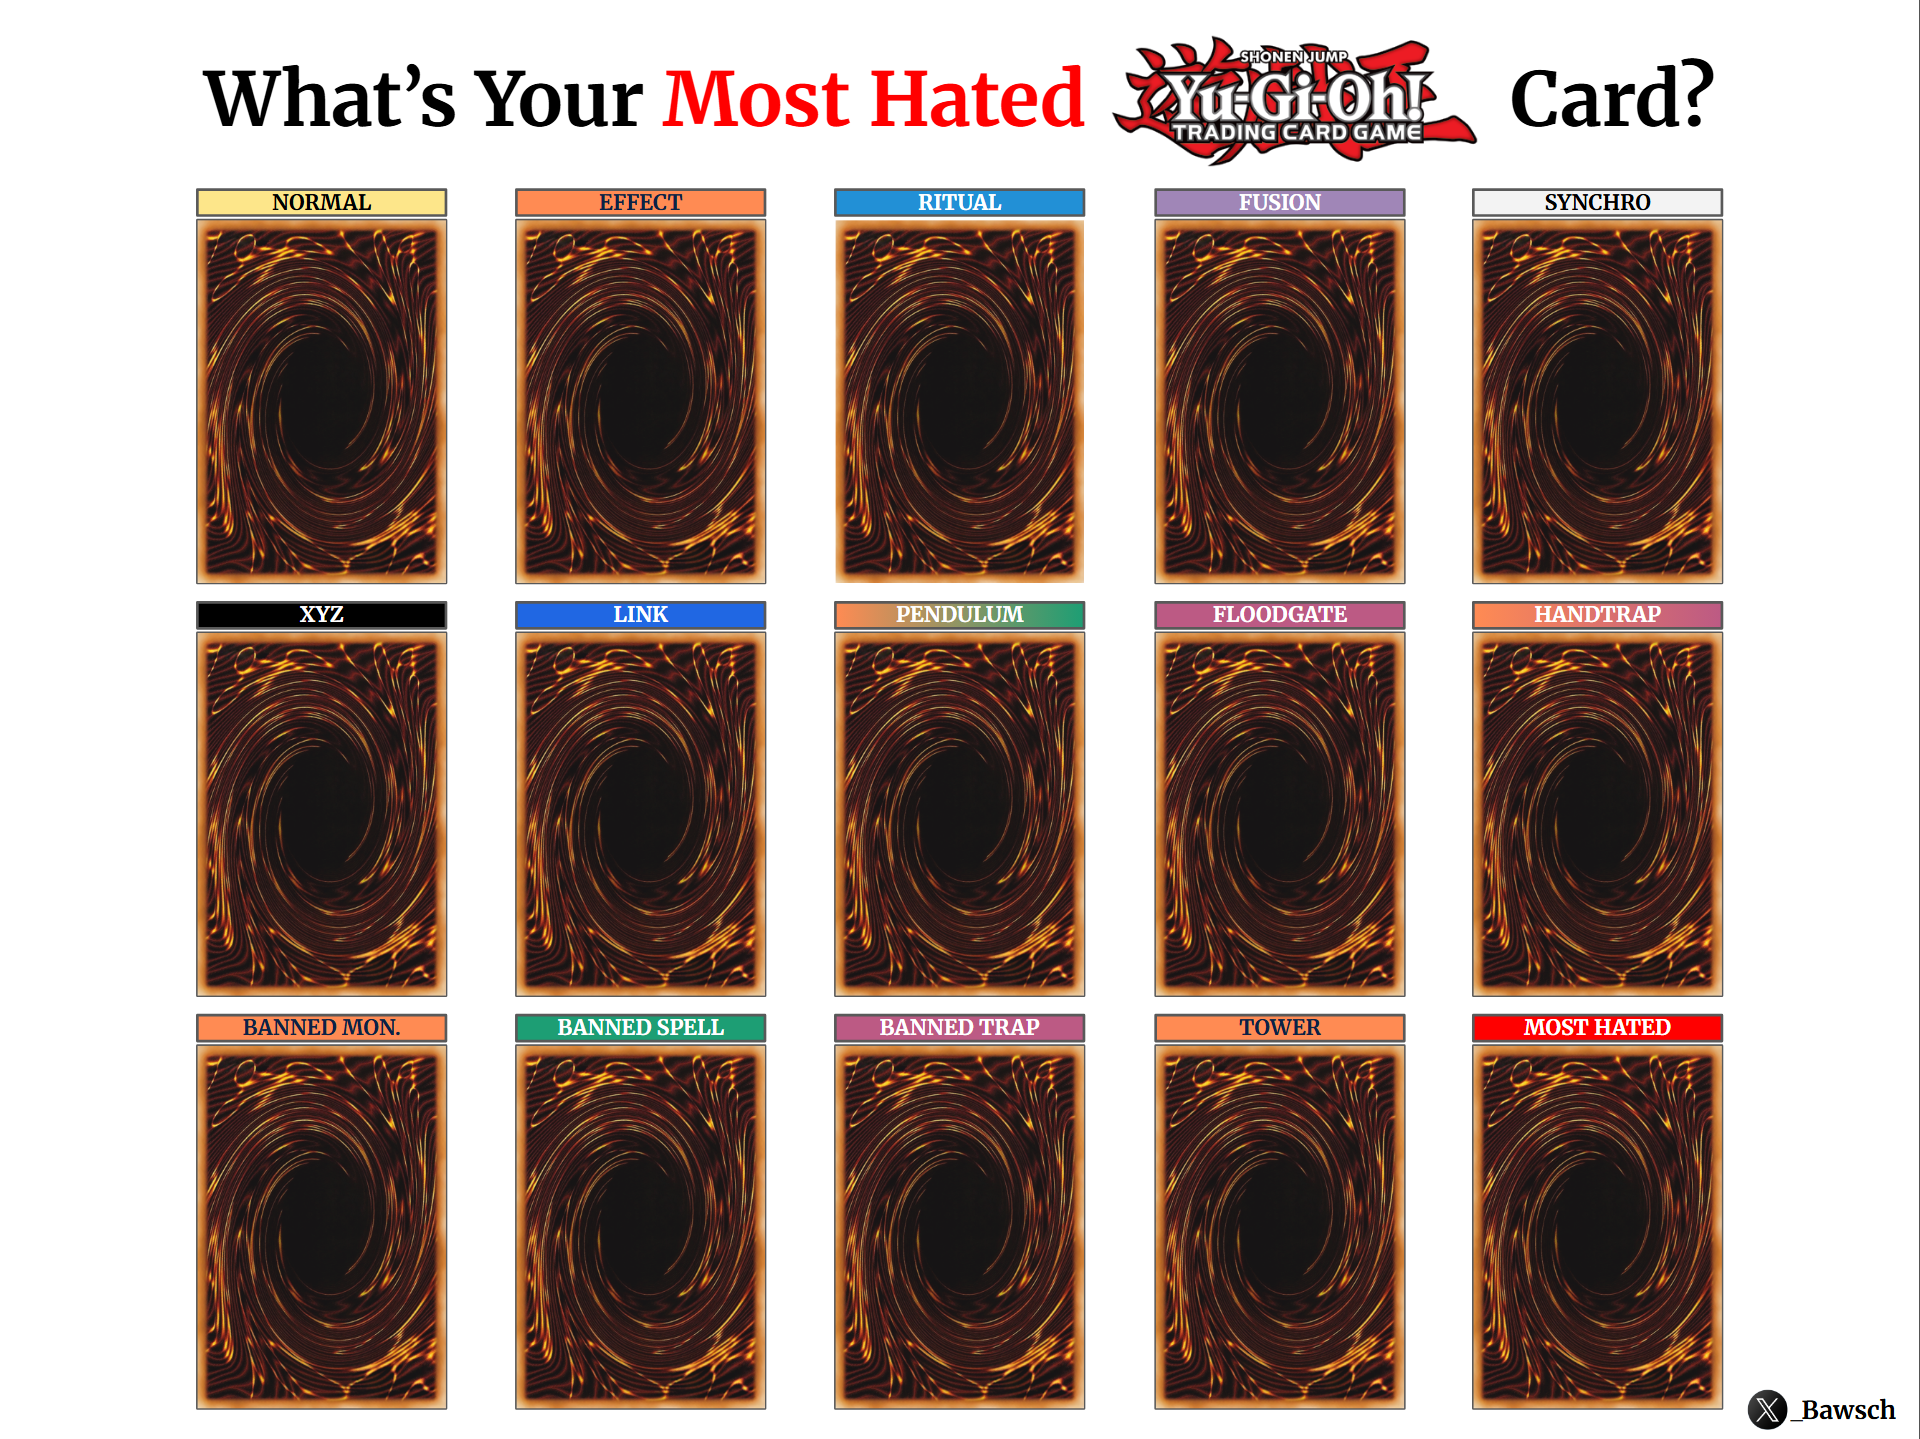
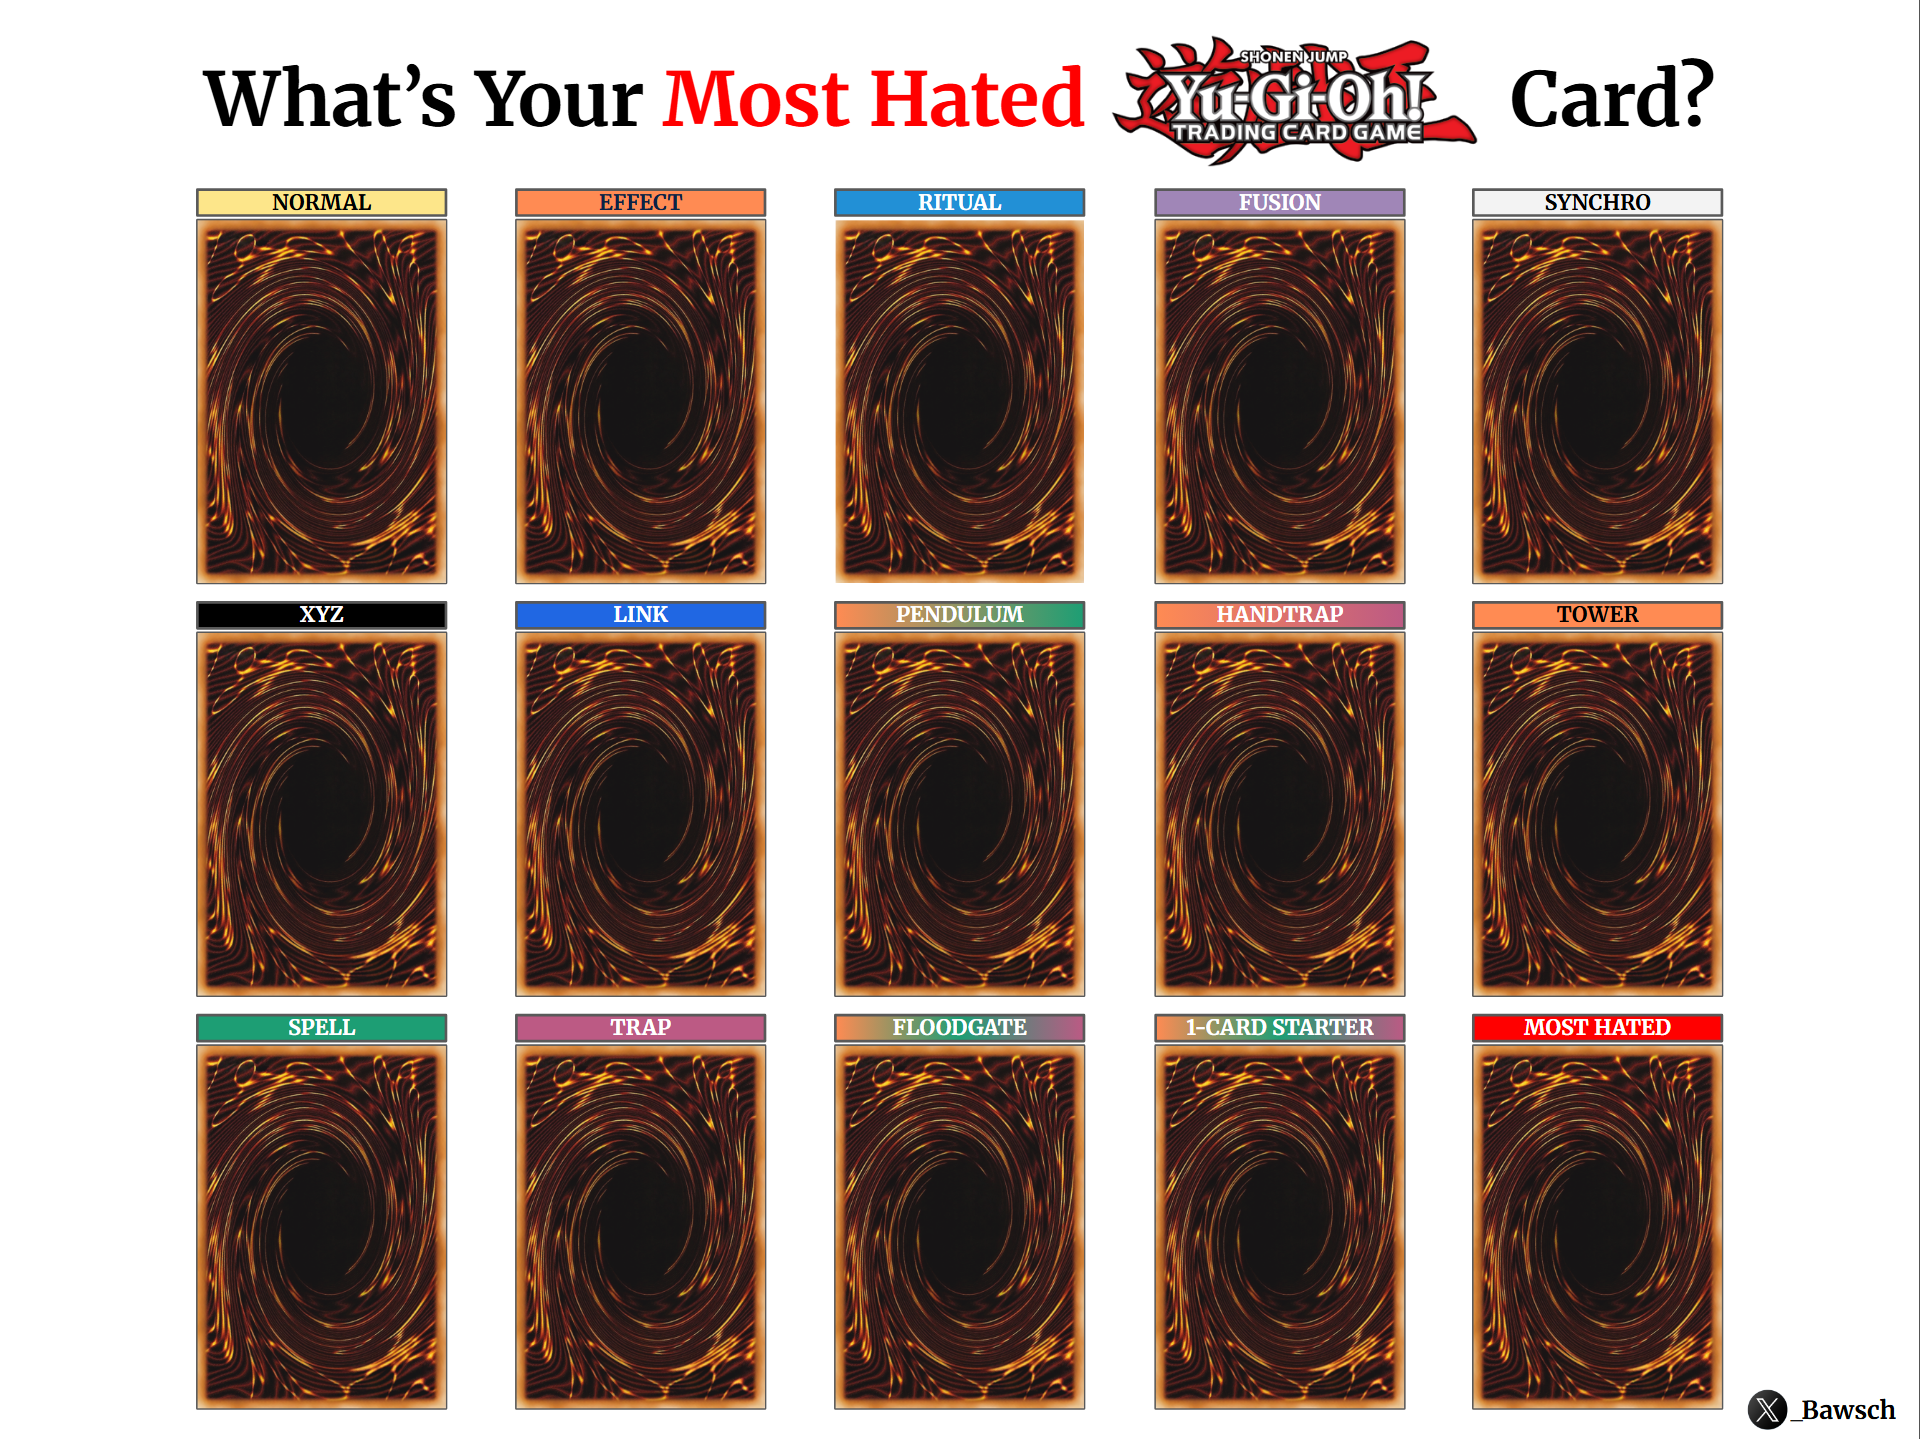
Updated most hated cards

diff --git a/script_hated.js b/script_hated.js
@@ -2,23 +2,23 @@
 // percentages measured from the template's card-back slots -- SAME
 // coordinates as the other two pickers (same template image dimensions).
 const CATEGORY_LAYOUT = [
-  { key: "NORMAL",         label: "Normal",       left: 10.208, top: 15.149, width: 13.073, height: 25.434 },
-  { key: "EFFECT",         label: "Effect",       left: 26.823, top: 15.149, width: 13.073, height: 25.434 },
-  { key: "RITUAL",         label: "Ritual",       left: 43.438, top: 15.149, width: 13.073, height: 25.434 },
-  { key: "FUSION",         label: "Fusion",       left: 60.104, top: 15.149, width: 13.073, height: 25.434 },
-  { key: "SYNCHRO",        label: "Synchro",      left: 76.667, top: 15.149, width: 13.073, height: 25.434 },
+  { key: "NORMAL",           label: "Normal",          left: 10.208, top: 15.149, width: 13.073, height: 25.434 },
+  { key: "EFFECT",           label: "Effect",          left: 26.823, top: 15.149, width: 13.073, height: 25.434 },
+  { key: "RITUAL",           label: "Ritual",          left: 43.438, top: 15.149, width: 13.073, height: 25.434 },
+  { key: "FUSION",           label: "Fusion",          left: 60.104, top: 15.149, width: 13.073, height: 25.434 },
+  { key: "SYNCHRO",          label: "Synchro",         left: 76.667, top: 15.149, width: 13.073, height: 25.434 },
 
-  { key: "XYZ",            label: "Xyz",          left: 10.208, top: 43.850, width: 13.073, height: 25.365 },
-  { key: "LINK",           label: "Link",         left: 26.823, top: 43.850, width: 13.073, height: 25.365 },
-  { key: "PENDULUM",       label: "Pendulum",     left: 43.438, top: 43.850, width: 13.073, height: 25.365 },
-  { key: "FLOODGATE",      label: "Floodgate",    left: 60.104, top: 43.850, width: 13.073, height: 25.365 },
-  { key: "HANDTRAP",       label: "Handtrap",     left: 76.667, top: 43.850, width: 13.073, height: 25.365 },
+  { key: "XYZ",              label: "Xyz",             left: 10.208, top: 43.850, width: 13.073, height: 25.365 },
+  { key: "LINK",             label: "Link",            left: 26.823, top: 43.850, width: 13.073, height: 25.365 },
+  { key: "PENDULUM",         label: "Pendulum",        left: 43.438, top: 43.850, width: 13.073, height: 25.365 },
+  { key: "HANDTRAP",         label: "Handtrap",        left: 60.104, top: 43.850, width: 13.073, height: 25.365 },
+  { key: "TOWER",            label: "Tower",           left: 76.667, top: 43.850, width: 13.073, height: 25.365 },
 
-  { key: "BANNED_MONSTER", label: "Banned Mon.",  left: 10.208, top: 72.481, width: 13.073, height: 25.434 },
-  { key: "BANNED_SPELL",   label: "Banned Spell", left: 26.823, top: 72.481, width: 13.073, height: 25.434 },
-  { key: "BANNED_TRAP",    label: "Banned Trap",  left: 43.438, top: 72.481, width: 13.073, height: 25.434 },
-  { key: "TOWER",          label: "Tower",        left: 60.104, top: 72.481, width: 13.073, height: 25.434 },
-  { key: "MOST_HATED",     label: "Most Hated",   left: 76.667, top: 72.481, width: 13.073, height: 25.434 },
+  { key: "SPELL",            label: "Spell",           left: 10.208, top: 72.481, width: 13.073, height: 25.434 },
+  { key: "TRAP",             label: "Trap",            left: 26.823, top: 72.481, width: 13.073, height: 25.434 },
+  { key: "FLOODGATE",        label: "Floodgate",       left: 43.438, top: 72.481, width: 13.073, height: 25.434 },
+  { key: "ONE_CARD_STARTER", label: "1-Card Starter",  left: 60.104, top: 72.481, width: 13.073, height: 25.434 },
+  { key: "MOST_HATED",       label: "Most Hated",      left: 76.667, top: 72.481, width: 13.073, height: 25.434 },
 ];
 
 const grid = document.getElementById("grid");
@@ -67,7 +67,23 @@ function restorePicksFromStorage() {
 // actually lives in (monster categories in CARD_DATA, spell/trap in
 // CARD_DATA_ST, cross-type ones in CARD_DATA_SPECIAL) -- this just checks
 // all three so the rest of the code doesn't need to know which.
+function dedupeById(...lists) {
+  const seen = new Map();
+  lists.forEach(list => (list || []).forEach(card => seen.set(String(card.id), card)));
+  return Array.from(seen.values());
+}
+
 function getStoredList(key) {
+  // "Spell"/"Trap" aren't stored as their own combined category anywhere --
+  // built here from the sub-categories that already exist in card_data_st.js.
+  if (key === "SPELL") {
+    const st = window.CARD_DATA_ST || {};
+    return dedupeById(st.SPELL_NORMAL, st.SPELL_CONTINUOUS, st.EQUIP, st.QUICKPLAY, st.FIELD, st.RITUAL_SPELL);
+  }
+  if (key === "TRAP") {
+    const st = window.CARD_DATA_ST || {};
+    return dedupeById(st.TRAP_NORMAL, st.TRAP_CONTINUOUS, st.COUNTER);
+  }
   if (window.CARD_DATA && window.CARD_DATA[key]) return window.CARD_DATA[key];
   if (window.CARD_DATA_ST && window.CARD_DATA_ST[key]) return window.CARD_DATA_ST[key];
   if (window.CARD_DATA_SPECIAL && window.CARD_DATA_SPECIAL[key]) return window.CARD_DATA_SPECIAL[key];
@@ -101,6 +117,7 @@ function getCurrentSelections() {
 
 function getListFor(key) {
   if (key === "MOST_HATED") return getCurrentSelections();
+  if (key === "ONE_CARD_STARTER") return getAllCardsFlat(); // no restriction at all -- pick from anything
   return getStoredList(key);
 }
 
@@ -187,13 +204,26 @@ clearBtn.addEventListener("click", () => {
   updateClearBtnState();
 });
 
+const BATCH_SIZE = 60;
+let currentFullList = [];
+let renderedCount = 0;
+
 function renderCardList(list) {
+  currentFullList = list;
+  renderedCount = 0;
   cardList.innerHTML = "";
+
   if (list.length === 0) {
     cardList.innerHTML = "<p style='padding:12px;'>Nothing to pick from yet — fill in some of the other boxes first.</p>";
     return;
   }
-  list.forEach(card => {
+
+  renderNextBatch();
+}
+
+function renderNextBatch() {
+  const nextItems = currentFullList.slice(renderedCount, renderedCount + BATCH_SIZE);
+  nextItems.forEach(card => {
     const img = document.createElement("img");
     img.src = `images/${card.id}.jpg`;
     img.alt = card.name;
@@ -205,7 +235,17 @@ function renderCardList(list) {
     });
     cardList.appendChild(img);
   });
+  renderedCount += nextItems.length;
 }
+
+// Load the next batch automatically once the user scrolls near the bottom --
+// keeps the DOM light (never much more than one batch beyond what's visible)
+// while still making the entire list reachable by scrolling.
+cardList.addEventListener("scroll", () => {
+  if (renderedCount >= currentFullList.length) return; // already showing everything
+  const nearBottom = cardList.scrollTop + cardList.clientHeight >= cardList.scrollHeight - 300;
+  if (nearBottom) renderNextBatch();
+});
 
 // Only these categories open up to the FULL card database while searching --
 // they're the ones built from best-effort text filters (Floodgate, Handtrap,
@@ -213,7 +253,7 @@ function renderCardList(list) {
 // search escape hatch matters in case a filter missed a real card. The other
 // 11 categories are reliably classified from structural API fields
 // (frameType, banlist status), so they stay restricted even while searching.
-const OPEN_SEARCH_KEYS = new Set(["FLOODGATE", "HANDTRAP", "TOWER", "MOST_HATED"]);
+const OPEN_SEARCH_KEYS = new Set(["FLOODGATE", "HANDTRAP", "TOWER", "ONE_CARD_STARTER", "MOST_HATED"]);
 
 searchBox.addEventListener("input", () => {
   const term = searchBox.value.toLowerCase();
